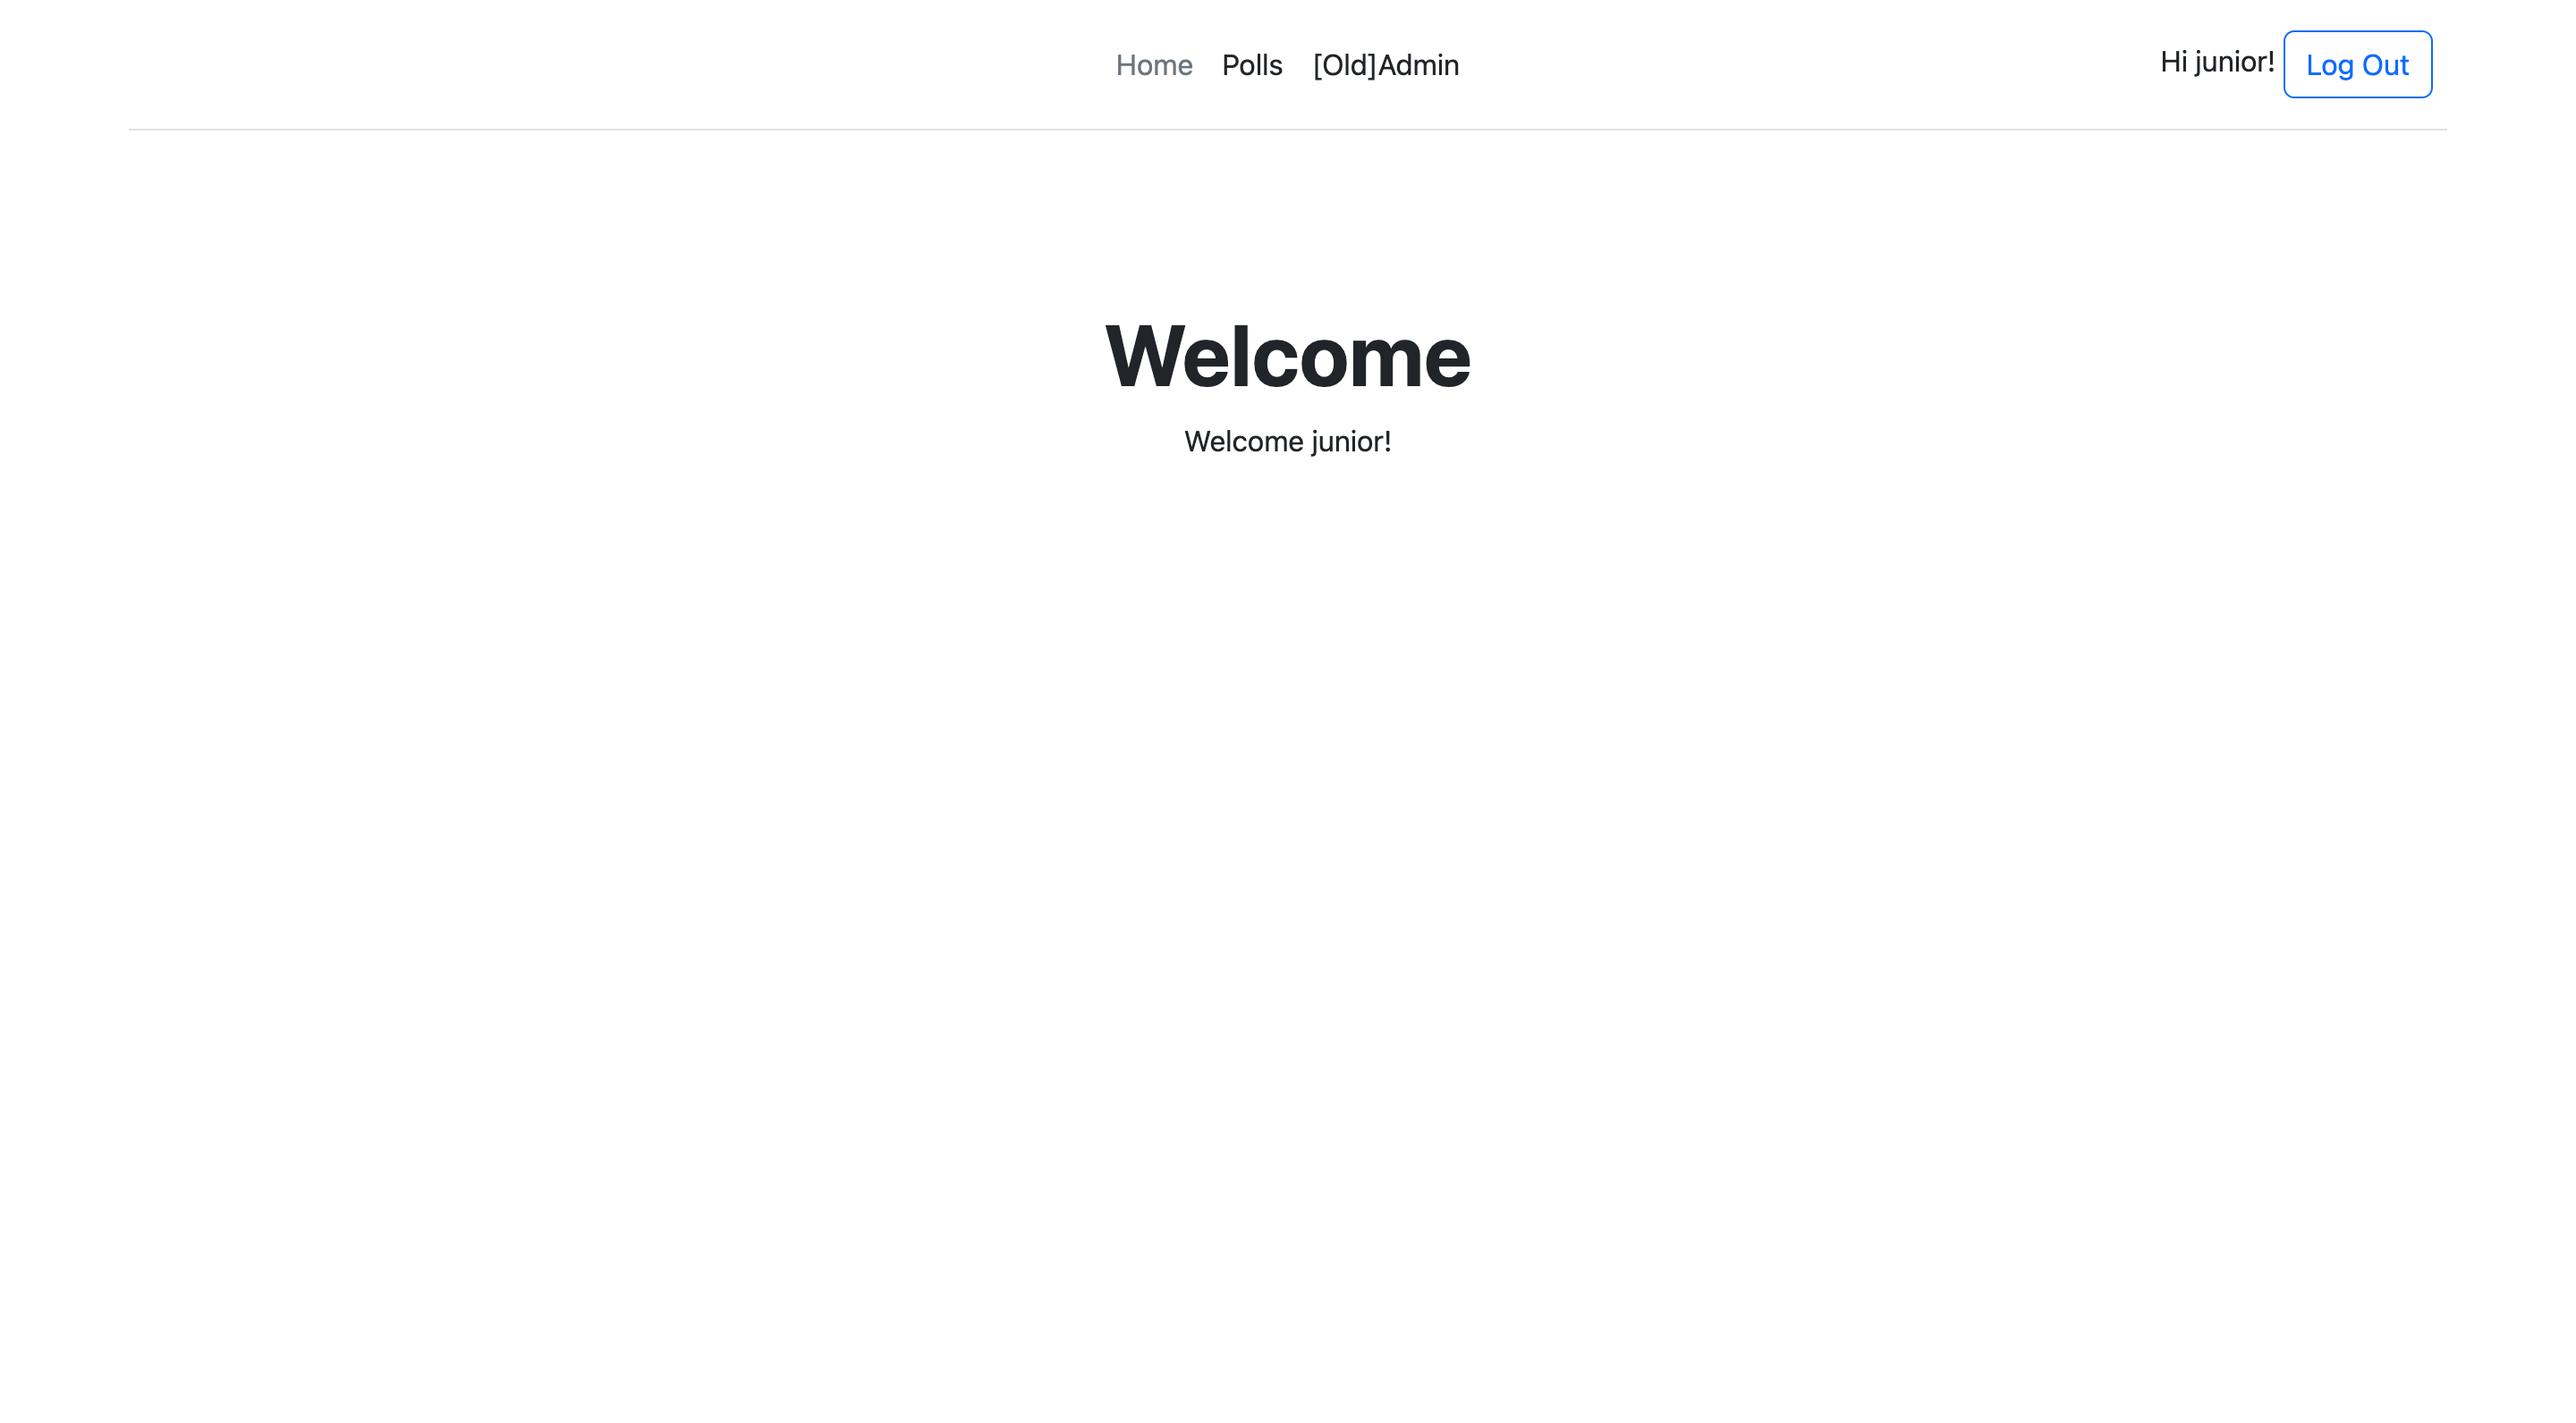
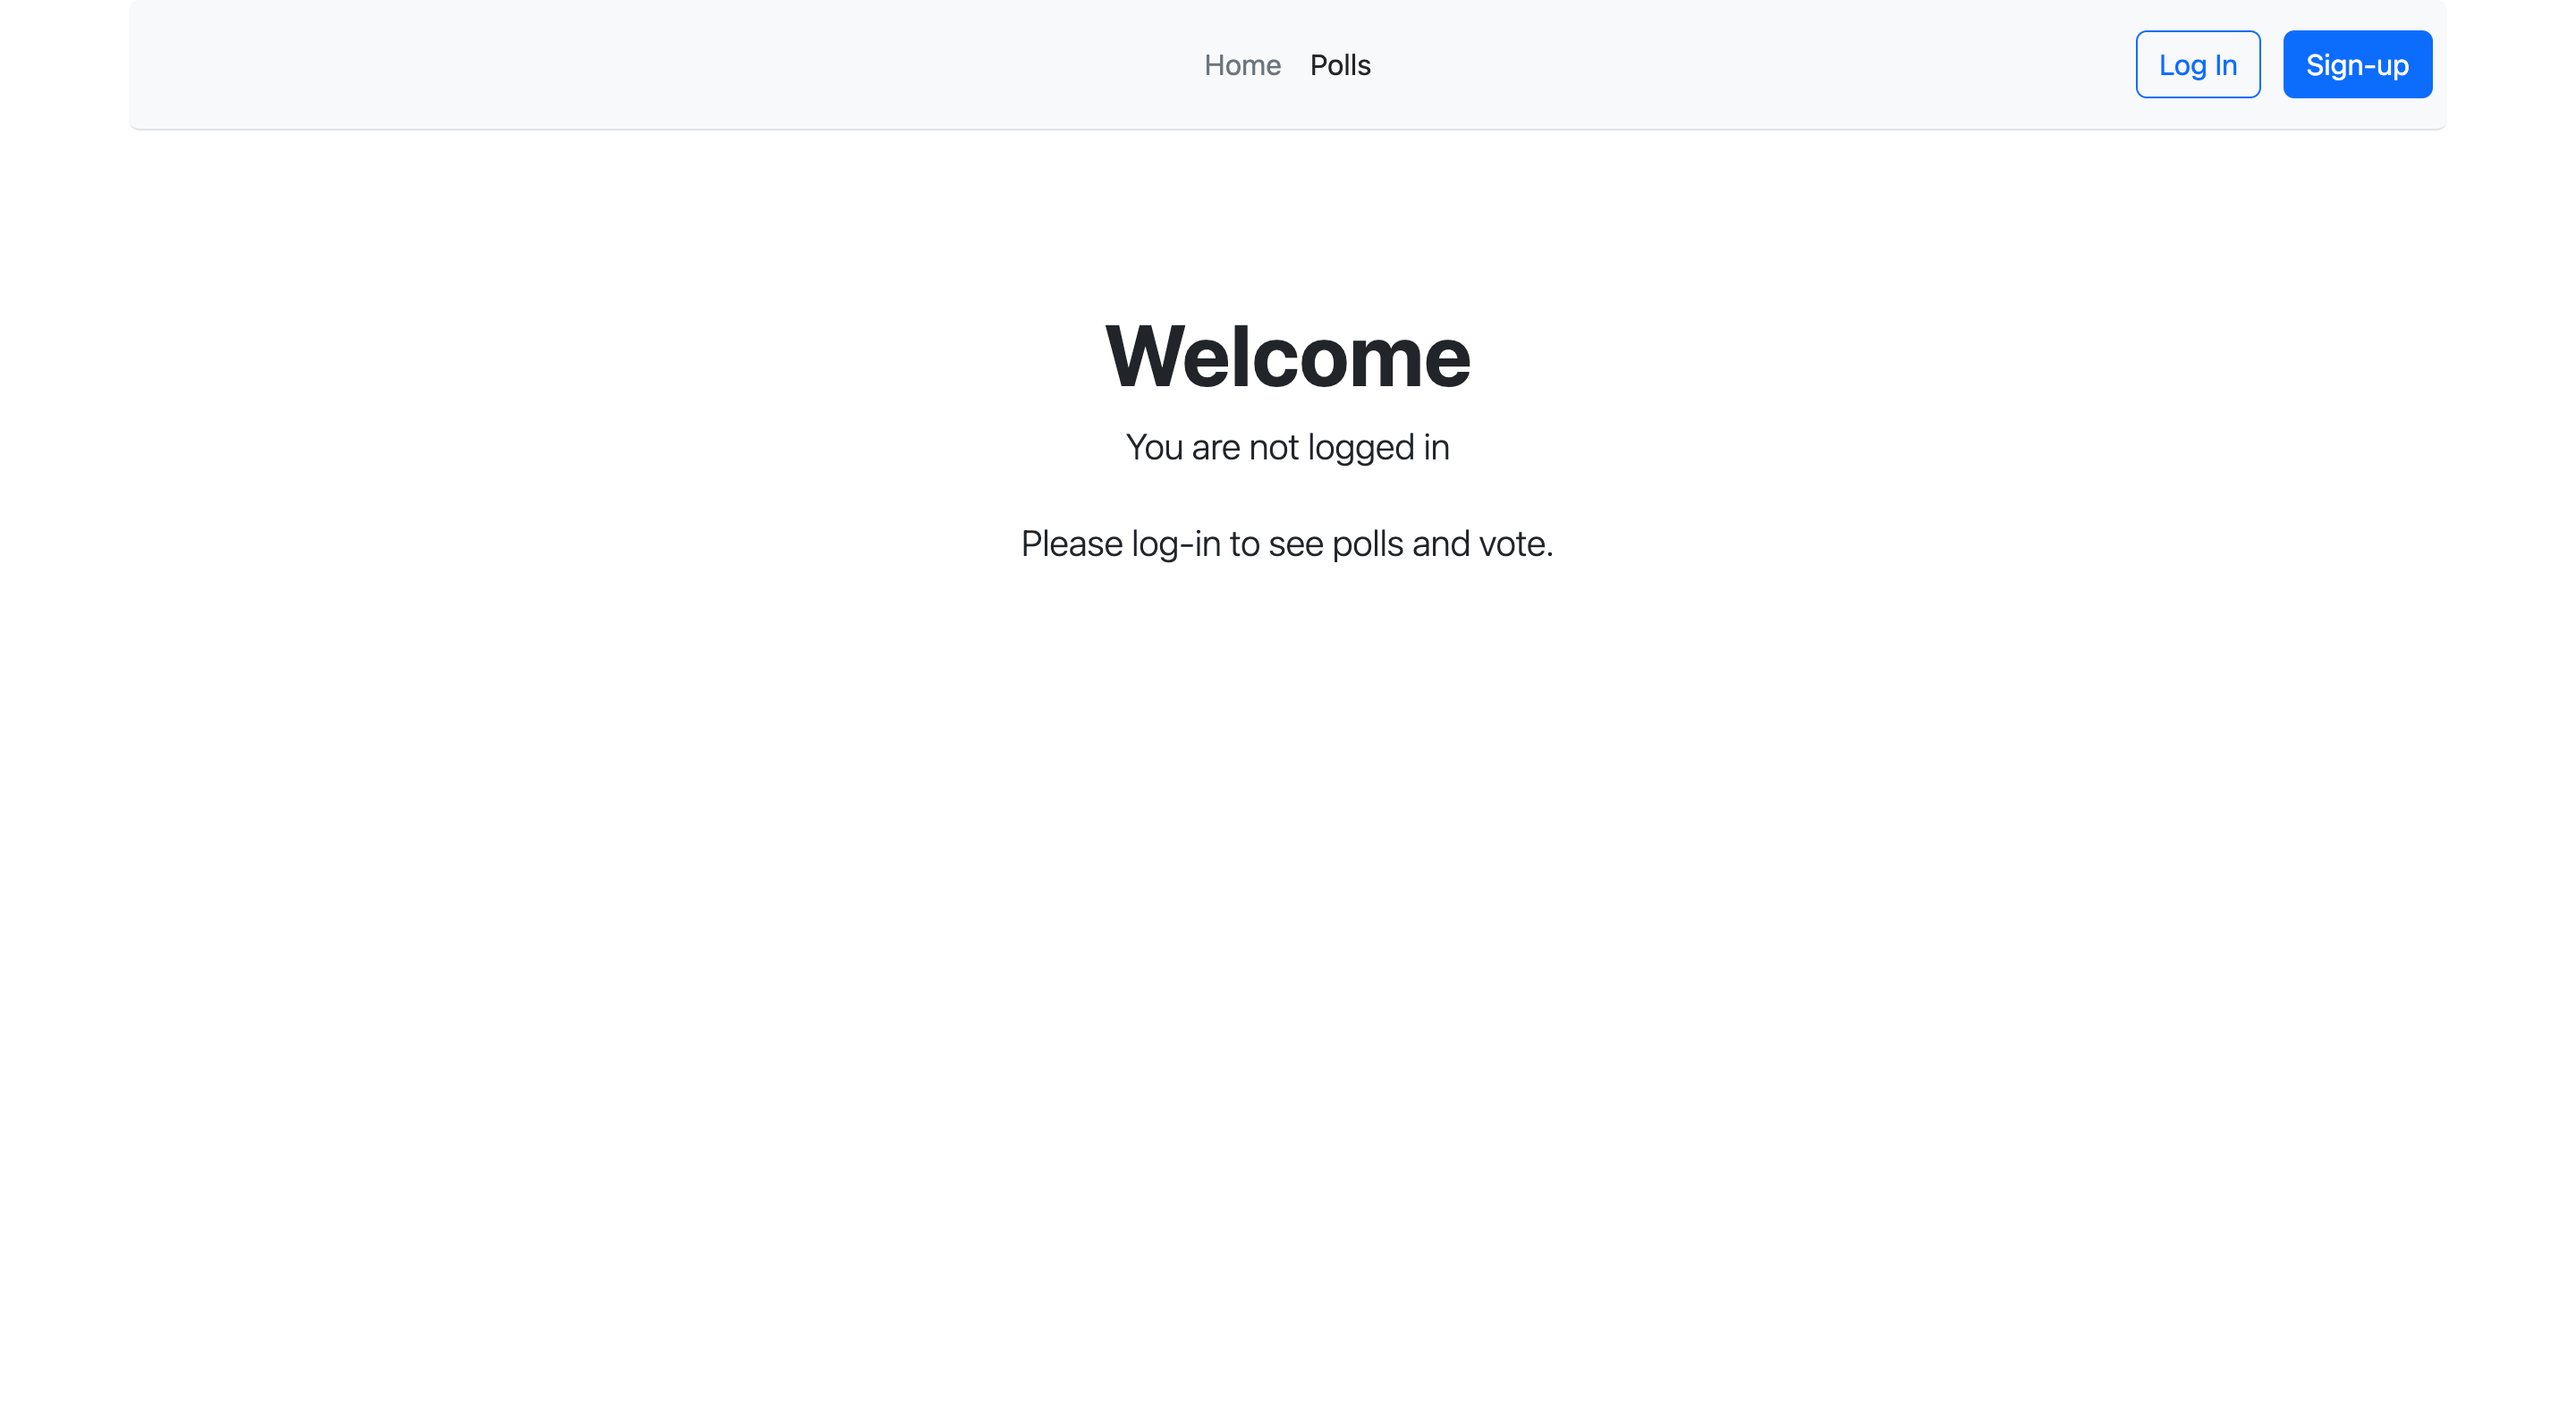
updated nav bar and total of votes description

diff --git a/templates/base.html b/templates/base.html
@@ -13,26 +13,39 @@
 
 <main>
   <div class="container">
-    <header class="d-flex flex-wrap align-items-center justify-content-center justify-content-md-between py-3 mb-4 border-bottom">
+    <header class="d-flex flex-wrap align-items-center justify-content-center justify-content-md-between py-3 mb-4 border-bottom bg-light rounded">
       <a href="/" class="d-flex align-items-center col-md-3 mb-2 mb-md-0 text-dark text-decoration-none">
         <svg class="bi me-2" width="40" height="32" role="img" aria-label="Bootstrap"><use xlink:href="#bootstrap"></use></svg>
       </a>
 
       <ul class="nav col-12 col-md-auto mb-2 justify-content-center mb-md-0">
             <li><a href="/" class="nav-link px-2 link-secondary">Home</a></li>
-            <li><a href="/polls" class="nav-link px-2 link-dark">Polls</a></li>
-            <li><a href="/admin" class="nav-link px-2 link-dark">[Old]Admin</a></li>
+            {% if user.is_authenticated %}
+              <li><a href="/polls" class="nav-link px-2 link-dark">Polls</a></li>
+              <li><a href="/admin" class="nav-link px-2 link-dark">[Old]Admin</a></li>
+          {% else %}
+            <li><a role="link" aria-disabled="true" class="nav-link px-2 link-dark">Polls</a></li>
+          {% endif %}
       </ul>
 
       <div class="col-md-3 text-end">
           {% if user.is_authenticated %}
-            Hi {{ user.username }}!
-              <a href="{% url 'logout' %}" class="btn btn-outline-primary me-2">Log Out</a>
+              <div class="dropdown text-end">
+                <a href="#" class="d-block link-dark text-decoration-none dropdown-toggle text-muted" data-bs-toggle="dropdown" aria-expanded="false">
+                  Welcome {{ user.username }}
+                  <img src="https://github.com/mdo.png" alt="mdo" width="32" height="32" class="rounded-circle">
+                </a>
+                <ul class="dropdown-menu text-small">
+                  <li><a class="dropdown-item" href="{% url 'logout' %}">Sign out</a></li>
+                </ul>
+              </div>
           {% else %}
               <a href="{% url 'login' %}" class="btn btn-outline-primary me-2">Log In</a>
               <a href="/accounts/signup/" class="btn btn-primary me-2">Sign-up</a>
           {% endif %}
       </div>
+
+      
     </header>
   </div>
 

diff --git a/templates/polls/results.html b/templates/polls/results.html
@@ -4,7 +4,7 @@
 {% block content %}
 
     <div class="px-4 py-5 my-5 text-center">
-    <h1 class="display-5 fw-bold">{{ question.question_text }} | {{ question.total_votes }}</h1>
+    <h1 class="display-5 fw-bold">{{ question.question_text }} | Total of votes {{ question.total_votes }}</h1>
     <div class="col-lg-6 mx-auto">
 
 

diff --git a/templates/home.html b/templates/home.html
@@ -11,6 +11,7 @@
     Welcome {{ user.username }}!
     {% else %}
     <p class="lead mb-4">You are not logged in</p>
+    <p class="lead mb-4">Please log-in to see polls and vote.</p>
     {% endif %}
 
     </div>

diff --git a/readme.md b/readme.md
@@ -5,25 +5,26 @@ This is an assessment mini-project of Back-End Web Development as part of a BSc 
 
 ## Features
 
-Log in, log out, create a user, and recover the password.
+- Log in, log out, create a user, and recover the password
 
 - Polls: See the list of polls, vote and see the results
 
 ## Roadmap
 
-The main screen showing the welcome page:
+The main screen is showing the welcome page:
 This section uses a file base.html in the templates folder to be the base template of all HTML files.
 I am using Bootstrap to save time on the CSS, and the CSS is loaded from an official CDN.
 All the remaining pages are extensions of the base.html file.
+On this page, the user is required to log in to see polls and vote.
 
 - Log-in system
 The log-in system uses the built-in user authentication system provided by Django, with custom log-in, log-out, create and recovery password pages merged with the Bootstrap template.
 
 - Polls system
-The poll system shows the user the polls and their answer, the user can vote and see the results
+The poll system shows the user the polls and their answer, the user can vote and see the results, also the total number of votes.
 
 - Top Bar
-This bar is from the Bootstrap examples and the icons changes based on the session( If the user is logged in the menu changes)
+This bar is from the Bootstrap examples and the icons changes based on the session( If the user is logged in the menu changes showing the log-out option and the user name, alongside a profile example picture).
 
 ## Project
 
@@ -33,14 +34,14 @@ Create a Django-Python-MySQL app to allow users to choose answers from a questio
 
 - Welcome screen
 ![Main screen](https://github.com/codeitamarjr/Y3S1djangoAuthExercise/blob/master/screens/1-mail%20screen.png?raw=true)
-- List of Polls
-![Polls screen](https://github.com/codeitamarjr/Y3S1djangoAuthExercise/blob/master/screens/1-polls%20screen.png?raw=true)
-- Polls Result
-![Polls Result screen](https://github.com/codeitamarjr/Y3S1djangoAuthExercise/blob/master/screens/6-result%20screen.png?raw=true)
 - Login Page
 ![Login screen](https://github.com/codeitamarjr/Y3S1djangoAuthExercise/blob/master/screens/3-login%20screen.png?raw=true)
 - Welcome User
 ![User Welcome screen](https://github.com/codeitamarjr/Y3S1djangoAuthExercise/blob/master/screens/4-welcome%20screen.png?raw=true)
+- List of Polls
+![Polls screen](https://github.com/codeitamarjr/Y3S1djangoAuthExercise/blob/master/screens/1-polls%20screen.png?raw=true)
+- Polls Result's
+![Polls Result screen](https://github.com/codeitamarjr/Y3S1djangoAuthExercise/blob/master/screens/6-result%20screen.png?raw=true)
 
 ## Author
 
